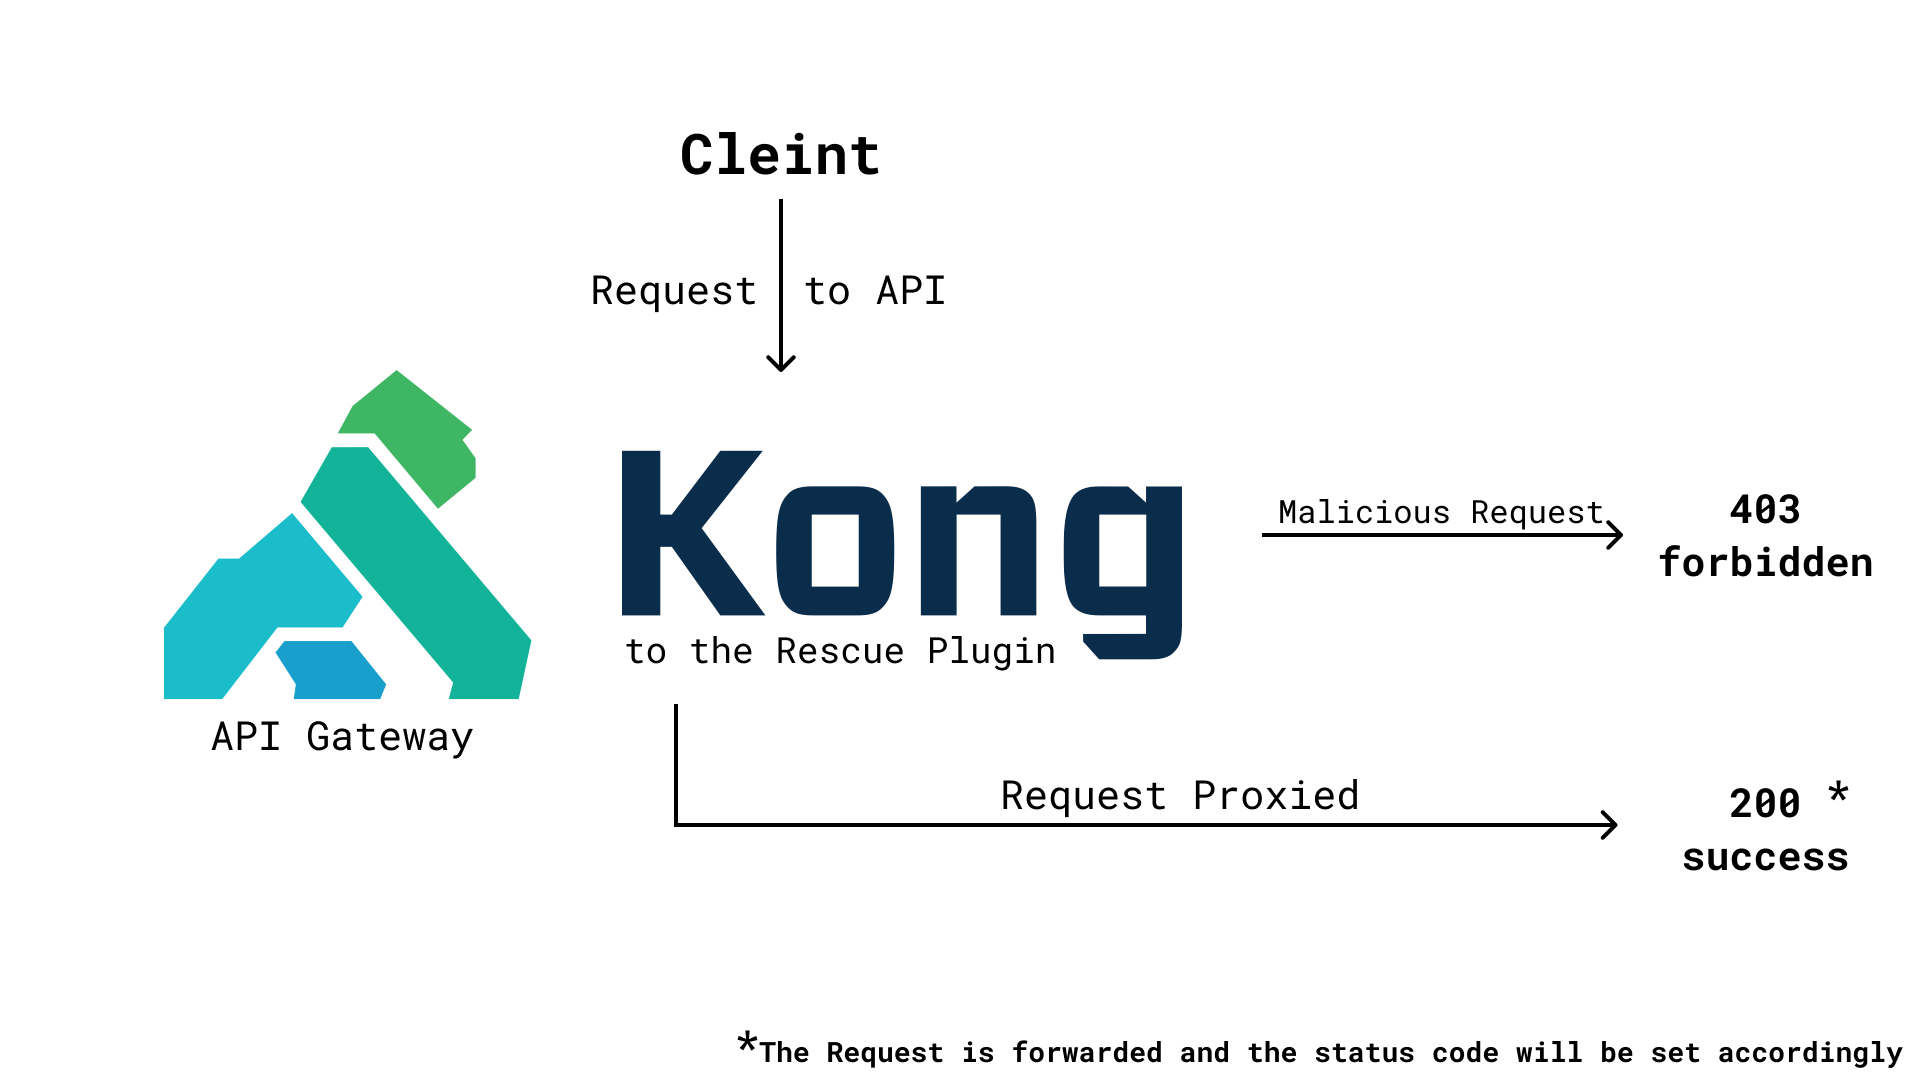
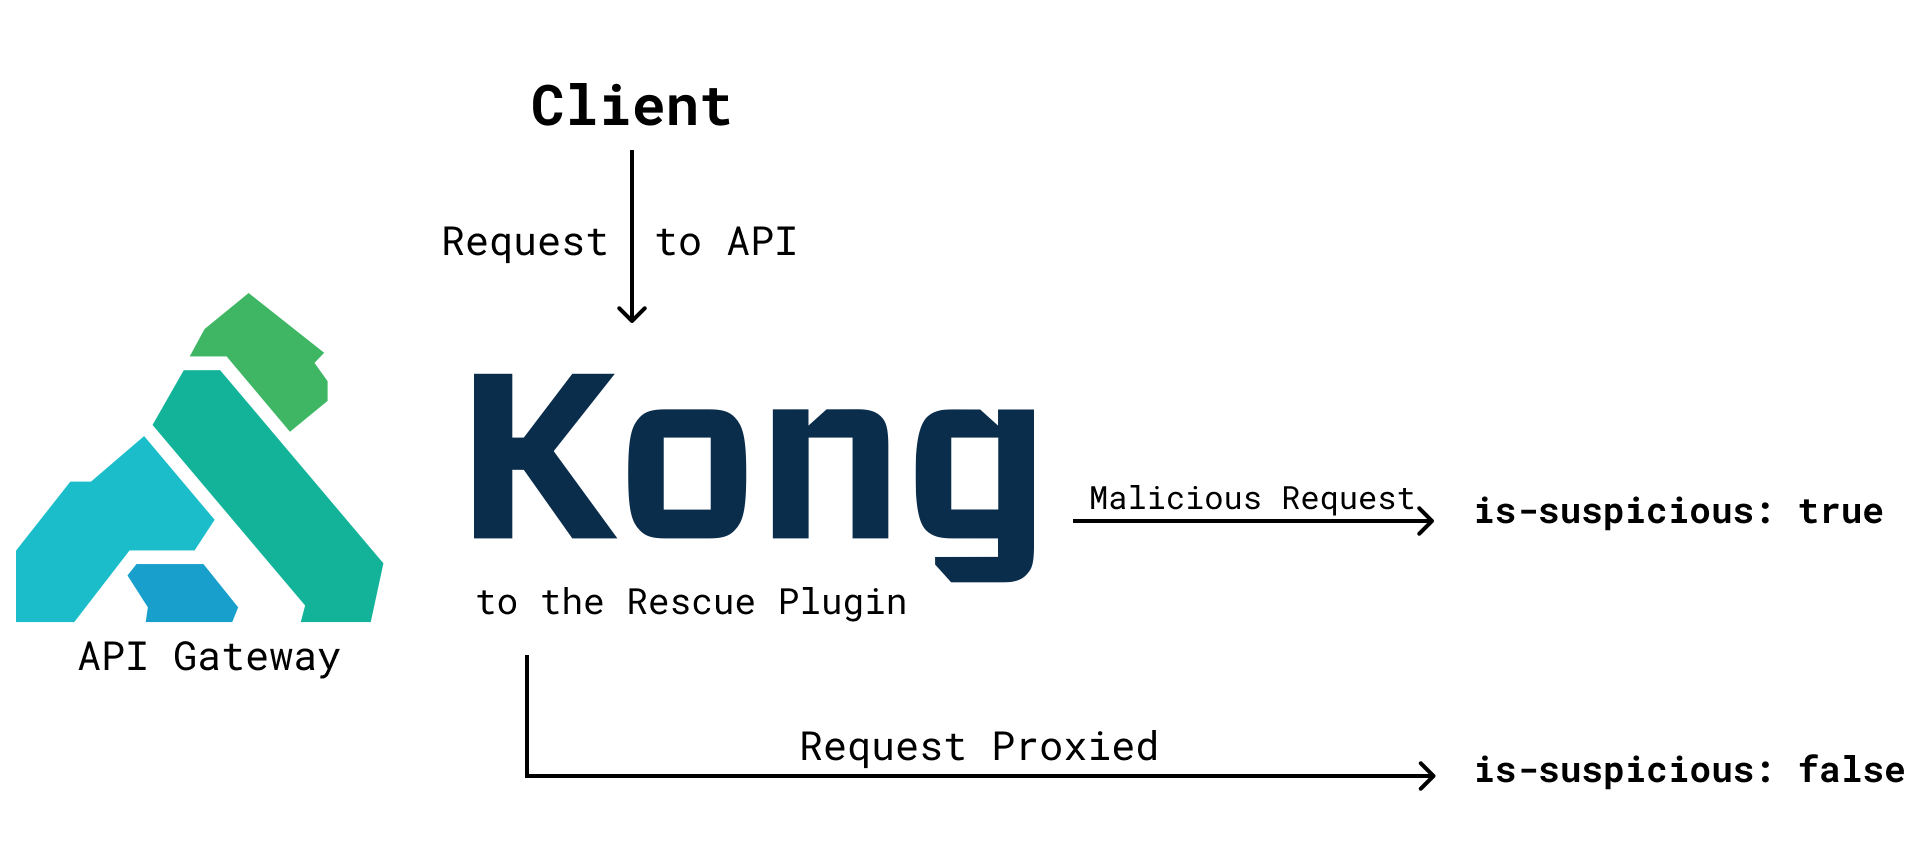
fix: send status in response header further instead of redirect

diff --git a/README.md b/README.md
@@ -1,12 +1,14 @@
 # KongToTheRescue
 
-A Kong API Gateway Plugin that forbids the requests that are potentially harmful to the system
+A Kong API Gateway Plugin that adds an `is-suspicious` header to the response for any potentially harmful requests to the system
 
 As of now, we test for:
 
 - SQL Injection
 - XSS (Cross Site Scripting)
 - Directory Traversal
+
+Currently we add it to the response header only to verify the legitimacy but later we can add it to the request header itself so that one can discard such requests before even processing them on the server.
 
 ## KongToTheRescue Architecture
 
@@ -27,14 +29,39 @@ This repo has 2 branches:
 2. Clone the repo using `git clone https://github.com/ShubhamPalriwala/KongToTheRescue.git`
 3. Get into the project directory `cd KongToTheRescue`
 4. Start a pongo shell, run `pongo shell` (if pongo isn't added to the path, then use `~/.local/bin/pongo shell`)
-5. Once you are in the pongo shell, run the `./config.sh` script present in the root directory of this repo.
+5. Once you are in the pongo shell, run the `./config.sh` script present in the root directory of this repo or just copy and pase the below commands:
+
+```sh
+kong migrations bootstrap --force
+kong start
+
+# create service
+curl -i -X POST \
+ --url http://localhost:8001/services/ \
+ --data 'name=service-to-my-github' \
+ --data 'url=https://shubhampalriwala.github.io/'
+
+# create route
+curl -i -X POST \
+ --url http://localhost:8001/services/service-to-my-github/routes \
+ --data 'hosts[]=mychapter.com'
+
+# add plugin
+curl -i -X POST \
+ --url http://localhost:8001/services/service-to-my-github/plugins/ \
+ --data 'name=kongtotherescue'
+```
+
 6. Now test the plugin by running `curl -I -H "Host: mychapter.com" http://localhost:8000/`
 
 ## File Structure
 
 Inside kong/plugins/kongtotherescue, you’ll see two files:
 
-- `handler.lua`: This is where the main functionality of your plugin resides. Each phase of the request/response lifecycle has a function, which the plugin implements to provide custom behavior. Basically the logic of the plugin
+- `handler.lua`: This is where the main functionality of your plugin resides. Each phase of the request/response lifecycle has a function, which the plugin implements to provide custom behavior. Basically the logic of the plugin.
+  - plugin:initworker(): This is the first function called when the plugin is loaded and is used to initialize the plugin.
+  - plugin:access(): This is the next function that is called when the plugin is loaded and is used to fetch data for our plugin from the request.
+  - plugin:header_filter(): This is the next and the last function (for now) that is called when the plugin is loaded and is used to modify the headers of the request as per our requirements.
 
 In handler.lua, one can have several methods that take the form of function plugin:<name>. These methods run during the execution lifecycle of Kong. The complete list of their descriptions in the API reference documentation.
 
